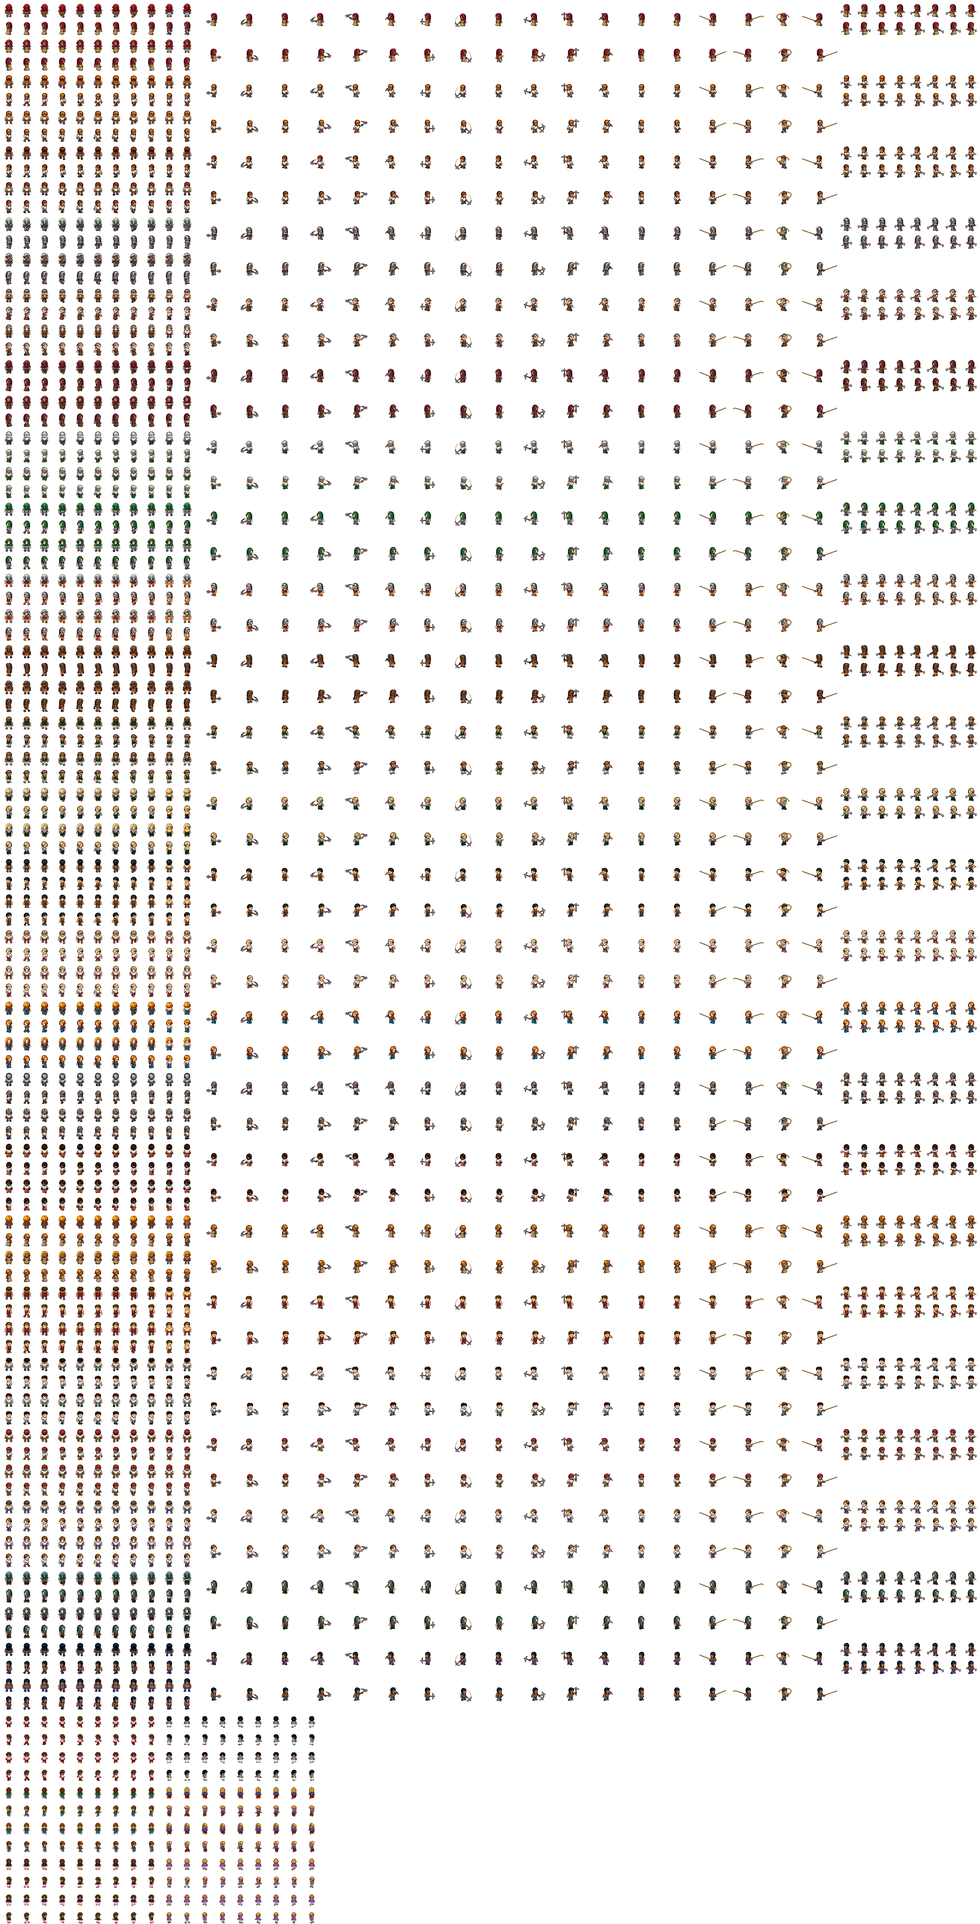
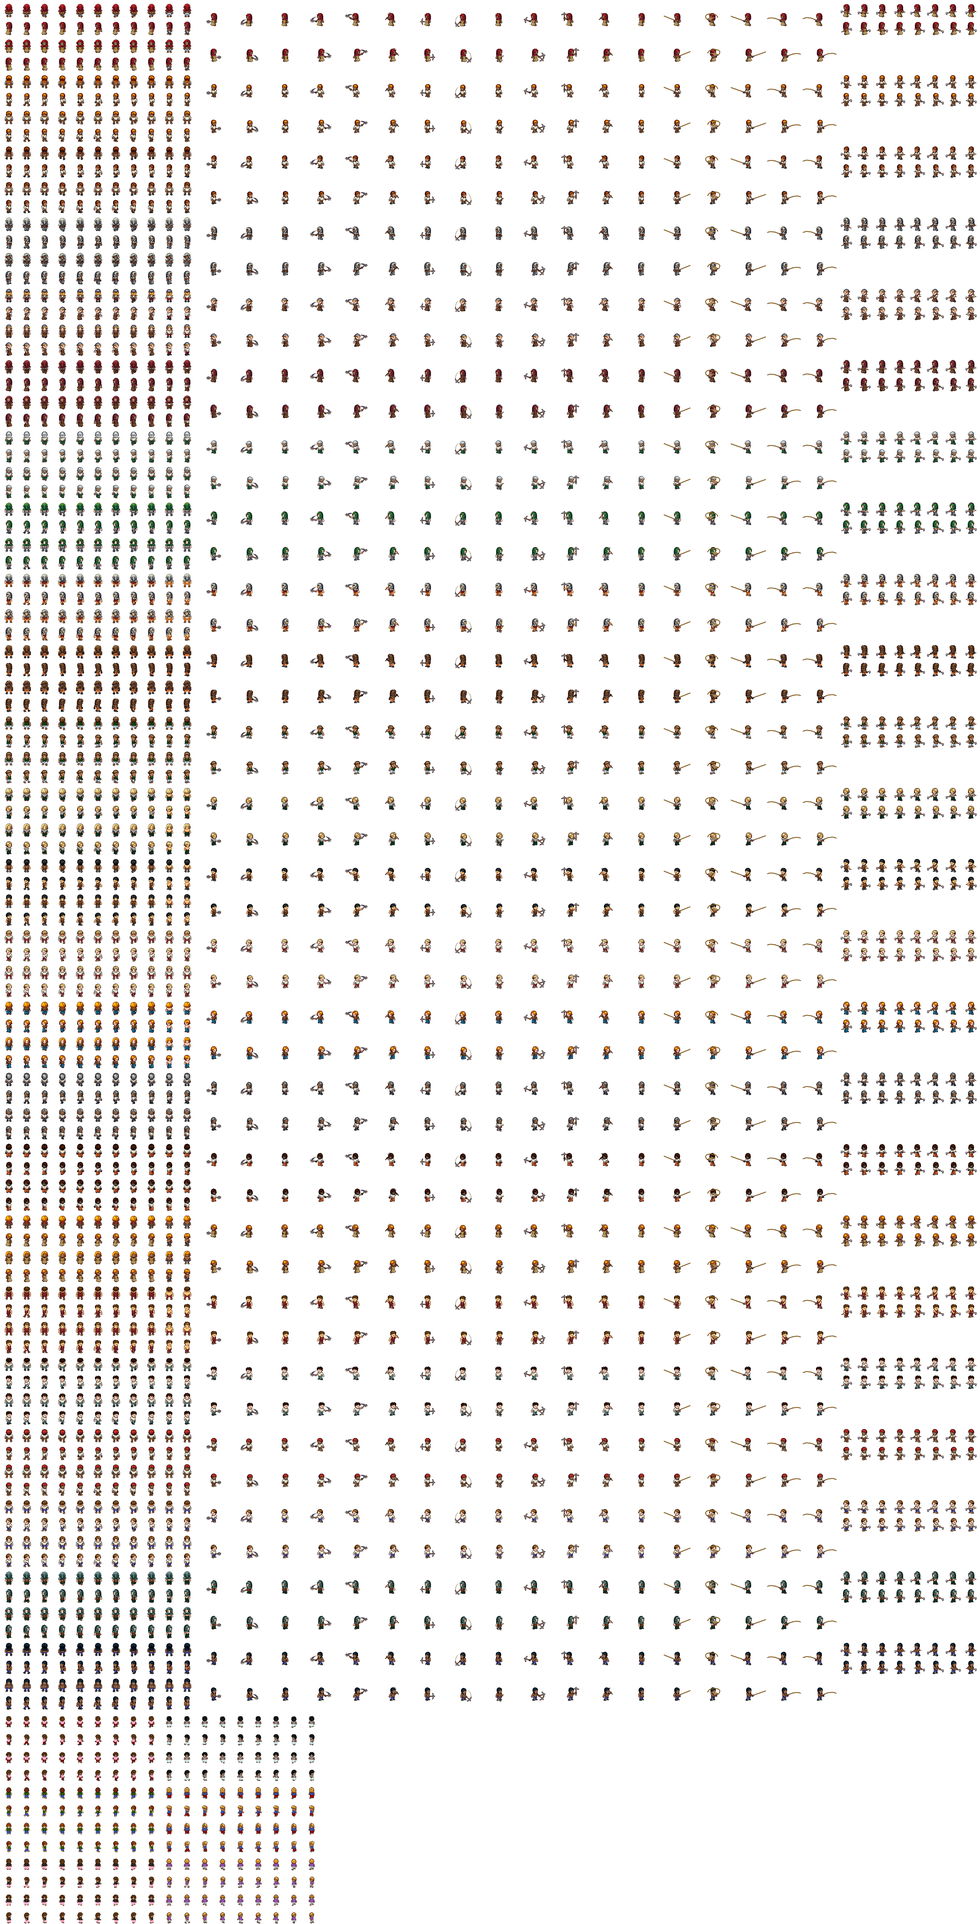
Terres franches : retouches (ordre de construction, canne tendue, minuteur de la bulle, vivres, libres, place maximale, biches, chat, rues)
- Volet CONSTRUIRE rangé dans l'ordre où l'on peut bâtir.
- Pêcheur : lancer puis canne tendue vers l'eau (planche refaite avec les
  images 6 et 7 de la canne LPC).
- Bulle : le minuteur d'un chantier baisse ; bouton AGRANDIR.
- Coût d'un villageois : icône des vivres (baies et poisson), rappel
  « vivres = baies, poisson ou pain ».
- Villageois sans métier : bandeau dans le volet, pastille LIBRES en haut.
- Place maximale : « /1200 » sur PC, jauge plus visible (vert, orange, rouge).
- Biches et cerf passent sous les arbres ; chat couché posé au sol.
- Les villageois marchent 1,5 fois plus vite sur les rues (MARCHE).

Claude-Session: https://claude.ai/code/session_012rRjPHE6E5cJMLYcQwQ3Zv

diff --git a/terres-franches/ecran.js b/terres-franches/ecran.js
@@ -18,8 +18,9 @@ function majBarre(){
   const liste = Object.keys(DON.RES).filter(r => TOUJOURS.includes(r) || vus[r]);
   let h = liste.map(r => { const v = t[r] * 60, tx = Math.abs(v) < .05 ? "" : `<small class="${v < 0 ? "moins" : ""}">${v > 0 ? "+" : ""}${Math.abs(v) < 10 ? v.toFixed(1) : Math.round(v)}</small>`;
     const cap = R.capacite(S, r), f = Math.min(1, S.res[r] / cap), pl = f > .985;
-    return `<span class="${pl ? "plein" : ""}" title="${nomRes(r)} : ${fmt(S.res[r])} / ${fmt(cap)}">${ic(r)}<b>${fmt(S.res[r])}</b>${pl ? "<small>PLEIN</small>" : tx}<i class="jauge" style="width:${Math.round(f * 100)}%"></i></span>`; }).join("");
-  h += `<span title="Habitants"><canvas class="ic portrait" width="30" height="30"></canvas><b>${S.pop}/${R.popMax(S)}</b></span>`;
+    return `<span class="${pl ? "plein" : f > .8 ? "presque" : ""}" title="${nomRes(r)} : ${fmt(S.res[r])} / ${fmt(cap)}">${ic(r)}<b>${fmt(S.res[r])}</b><small class="max">/${fmt(cap)}</small>${pl ? "<small class='pl'>PLEIN</small>" : tx}<i class="jauge"><i style="width:${Math.round(f * 100)}%"></i></i></span>`; }).join("");
+  const lib = R.libres(S);
+  h += `<span title="Habitants"><canvas class="ic portrait" width="30" height="30"></canvas><b>${S.pop}/${R.popMax(S)}</b>${lib ? `<em class="libres" title="Sans métier">${lib} LIBRE${lib > 1 ? "S" : ""}</em>` : ""}</span>`;
   if (h !== barre){ barre = h; $("res").innerHTML = h; $("res").querySelectorAll("canvas.portrait").forEach(portrait); }
   const st = DON.STATUTS[S.statut].nom; if ($("statut").textContent !== st) $("statut").textContent = st;
 }
@@ -34,13 +35,15 @@ function cout(c){
 }
 function volVillageois(){
   const S = J.S, P = R.reglages(S.mods), t = R.taux(S);
-  let h = `<h3><span>HABITANTS ${S.pop}/${R.popMax(S)}</span><span>LIBRES ${R.libres(S)}</span></h3>`;
+  const lib = R.libres(S);
+  let h = `<h3><span>HABITANTS ${S.pop}/${R.popMax(S)}</span></h3>`;
+  h += `<div class="sans ${lib ? "oui" : ""}"><b>${lib}</b><span>${lib ? `villageois sans métier : donne-${lib > 1 ? "leur" : "lui"} un travail avec <i>+</i>` : "Tout le monde travaille."}</span></div>`;
   // la limite : les toits (tente et feu, cabanes, maisons) ou le statut de la colonie, le plus petit des deux
   const toits = R.logement(S), lim = P.STATUTS[S.statut].popMax, suiv = P.STATUTS[S.statut + 1];
   h += `<p class="limite">Toits : <b>${toits}</b> · ${P.STATUTS[S.statut].nom} : <b>${lim}</b> au plus<br>${S.pop < R.popMax(S) ? "Il reste de la place : accueille quelqu'un."
     : toits < lim ? "Il manque des toits : construis une cabane." : suiv ? `Le ${P.STATUTS[S.statut].nom.toLowerCase()} est plein : il faut devenir ${suiv.nom.toLowerCase()} (volet COLONIE).` : "Plafond de l'ère : promulgue la Loi."}</p>`;
   const c = R.coutRecrue(S);
-  h += `<div class="carte"><canvas width="30" height="30" class="portrait" data-p="${S.pop}"></canvas><span class="nom">ACCUEILLIR<small>${cout(c)}</small></span><button type="button" class="bouton petit or" data-act="recruter">+1</button></div>`;
+  h += `<div class="carte"><canvas width="30" height="30" class="portrait" data-p="${S.pop}"></canvas><span class="nom">ACCUEILLIR<small>${cout(c)} <em>vivres = baies, poisson ou pain</em></small></span><button type="button" class="bouton petit or" data-act="recruter">+1</button></div>`;
   for (const m in P.METIERS){
     const M = P.METIERS[m], pl = R.places(S, m); if (!pl) continue;
     const r = M.produit || M.sortie, par = M.produit ? `${(t[r] * 60 >= 0 ? "+" : "")}${(t[r] * 60).toFixed(1)} ${nomRes(r)}/MIN` : `${Object.keys(M.entree).map(nomRes).join(" + ")} → ${nomRes(r)}`;
@@ -51,7 +54,7 @@ function volVillageois(){
 }
 function volConstruire(){
   const S = J.S, P = R.reglages(S.mods); let h = "";
-  for (const b in P.BATIMENTS){
+  for (const b of Object.keys(P.BATIMENTS).sort((u, v) => P.BATIMENTS[u].statut - P.BATIMENTS[v].statut)){   // dans l'ordre où l'on peut bâtir
     const B = P.BATIMENTS[b], e = R.peutConstruire(S, b), bloque = B.statut > S.statut, libres = C.libres(S, B.terrain).length;
     const plein = B.logement && !bloque && R.logement(S) >= P.STATUTS[S.statut].popMax;   // assez de toits : le statut limite
     if (B.niveaux && S.bat[b] + S.chantiers.filter(c => c.k === b).length > 0){   // une réserve déjà là : on l'agrandit
@@ -164,10 +167,16 @@ function bulle(id){
   const S = J.S, b = S.lots[id], B = DON.BATIMENTS[b], ch = S.chantiers.find(c => c.lot === id);
   const metiers = Object.keys(DON.METIERS).filter(m => DON.METIERS[m].places[b]);
   const qui = metiers.map(m => `${DON.METIERS[m].nom} : ${S.jobs[m]}/${R.places(S, m)}`).join("<br>");
-  const res = B.stock ? DON.STOCK.groupes[B.stock].map(r => `${nomRes(r).toLowerCase()} ${fmt(S.res[r])}/${fmt(R.capacite(S, r))}`).join("<br>") : "";
-  el.innerHTML = `<b>${B.nom}${B.niveaux ? " · NIV. " + S.bat[b] : ""}</b>${ch ? `${ch.agrandit ? "Agrandissement" : "Chantier"} : encore ${Math.ceil(ch.reste)} s` : B.logement ? `Loge ${B.logement} habitants` : res || qui || ""}
-    <div class="rang"><button type="button" class="bouton petit" data-x="dep">DEPLACER</button><button type="button" class="bouton petit" data-x="ok">OK</button></div>`;
+  el.innerHTML = `<div id="bInfo">${infoBulle(id)}</div>
+    <div class="rang">${B.niveaux ? `<button type="button" class="bouton petit or" data-x="up">AGRANDIR</button>` : ""}<button type="button" class="bouton petit" data-x="dep">DEPLACER</button><button type="button" class="bouton petit" data-x="ok">OK</button></div>`;
   el.hidden = false; placerBulle();
+}
+// le texte de la bulle (refait 4 fois par seconde : le minuteur du chantier baisse)
+function infoBulle(id){
+  const S = J.S, b = S.lots[id]; if (!b) return ""; const B = DON.BATIMENTS[b], ch = S.chantiers.find(c => c.lot === id);
+  const qui = Object.keys(DON.METIERS).filter(m => DON.METIERS[m].places[b]).map(m => `${DON.METIERS[m].nom} : ${S.jobs[m]}/${R.places(S, m)}`).join("<br>");
+  const res = B.stock ? DON.STOCK.groupes[B.stock].map(r => `${nomRes(r).toLowerCase()} ${fmt(S.res[r])}/${fmt(R.capacite(S, r))}`).join("<br>") : "";
+  return `<b>${B.nom}${B.niveaux ? " · NIV. " + S.bat[b] : ""}</b>${ch ? `${ch.agrandit ? "Agrandissement" : "Chantier"} : encore ${Math.ceil(ch.reste)} s<br>` : ""}${B.logement ? `Loge ${B.logement} habitants` : res || qui || ""}`;
 }
 function placerBulle(){
   if (!bulleLot) return; const L = C.LOTS[bulleLot], [sx, sy] = J.versEcran((L.x + L.l / 2) * C.T, L.y * C.T);
@@ -176,6 +185,7 @@ function placerBulle(){
 $("bulle").addEventListener("click", e => {
   const b = e.target.closest("button"); if (!b) return; const id = bulleLot; bulle(null);
   if (b.dataset.x === "dep") choisir(J.S.lots[id], id);
+  if (b.dataset.x === "up"){ const k = J.S.lots[id], e = R.construire(J.S, k); annonce(e || "AGRANDISSEMENT : " + DON.BATIMENTS[k].nom, !e); if (!e) J.sauver(); }
 });
 
 /* ---------- messages ---------- */
@@ -225,6 +235,6 @@ let derniere = 0;
 window.TerresEcran = {
   annonce, bulle, placement, retour,
   depart(recap){ majBarre(); retour(recap); },
-  image(t){ if (t - derniere > .25){ derniere = t; majBarre(); majVolet(); } placerBulle(); }
+  image(t){ if (t - derniere > .25){ derniere = t; majBarre(); majVolet(); const bi = $("bInfo"); if (bi && bulleLot){ const h = infoBulle(bulleLot); if (bi.innerHTML !== h) bi.innerHTML = h; } } placerBulle(); }
 };
 })();

diff --git a/terres-franches/vie.js b/terres-franches/vie.js
@@ -60,14 +60,14 @@ const ESPECES = {
   cerf: {im: "cerf", l: 64, h: 96, py: 90, k: .65, v: .6, n: 4, rang: {h: 0, g: 1, b: 3, d: null}, repos: ["cerf", {h: 2, g: 2, b: 2, d: null}, 4]},
   renard: {im: "renard", l: 64, h: 64, py: 54, k: .5, v: 1.6, n: 4, rang: {h: 3, g: 1, b: 0, d: 2}, repos: ["renard", {h: 0, g: 0, b: 0, d: 0}, 1]},
   chien: {im: "chien", l: 32, h: 32, py: 30, k: .9, v: 1.2, n: 3, bloc: 128, rang: {h: 1, g: 3, b: 2, d: 0}, repos: ["chien", {h: 4, g: 4, b: 4, d: 4}, 3]},
-  chat: {im: "chat", l: 32, h: 32, py: 30, k: .75, v: .7, n: 3, bloc: 128, rang: {h: 1, g: 3, b: 2, d: 0}, repos: ["chat", {h: 0, g: 0, b: 0, d: 0}, 1, 3]},
+  chat: {im: "chat", l: 32, h: 32, py: 30, k: .75, v: .7, n: 3, bloc: 128, rang: {h: 1, g: 3, b: 2, d: 0}, repos: ["chat", {h: 0, g: 0, b: 0, d: 0}, 1, 3], couche: 5},
   poule: {im: "poule", l: 32, h: 32, py: 28, k: .7, v: .5, n: 4, rang: {h: 0, g: 1, b: 2, d: 3}, repos: ["poule-mange", {h: 0, g: 1, b: 2, d: 3}, 4]},
   oiseau: {im: "oiseau1", l: 32, h: 32, py: 26, k: .45, v: .8, n: 3, rang: {h: 5, g: 4, b: 6, d: 7}, repos: ["oiseau1", {h: 5, g: 4, b: 6, d: 7}, 3]},
   poisson: {im: "poisson", l: 32, h: 32, py: 16, k: .8, v: .6, n: 4, rang: {h: 0, g: 1, b: 3, d: 2}}
 };
 // zones en cases [x0, x1, y0, y1] ; quand : à partir de quand la bête est là
 const BETES = [
-  {sp: "biche", z: [5, 9, 3.5, 5], quand: () => true}, {sp: "biche", z: [2.2, 4, 9, 14], quand: () => true}, {sp: "cerf", z: [5, 10, 3.5, 5], quand: () => true},
+  {sp: "biche", z: [3, 10, 2, 6], foret: true, quand: () => true}, {sp: "biche", z: [1, 4.5, 8, 15], foret: true, quand: () => true}, {sp: "cerf", z: [3, 11, 1.5, 5.5], foret: true, quand: () => true},
   {sp: "renard", z: [21.2, 21.8, 3, 17], quand: () => true},
   {sp: "oiseau", z: [2, 13, 17, 23], quand: S => S.bat.champ > 0, n: 4}, {sp: "oiseau", z: null, place: true, quand: S => S.statut >= 1, n: 3},
   {sp: "poule", z: null, logis: true, quand: S => S.bat.cabane > 0, n: 3},
@@ -87,8 +87,9 @@ function zoneDe(a, S){
   if (a.logis){ const id = Object.keys(S.lots).find(i => S.lots[i] === "cabane" || S.lots[i] === "maison"); if (!id) return null; const L = C.LOTS[id]; return [L.x - .3, L.x + L.l + .3, L.y + L.h, L.y + L.h + .8]; }
   return null;
 }
-const libre = (x, y) => /[.^]/.test(C.case_(Math.floor(x), Math.floor(y))) && Math.hypot(x - C.FEU[0] - .5, y - C.FEU[1] - .5) > 1.3;
-function trajetLibre(x0, y0, x1, y1){ const n = Math.ceil(Math.hypot(x1 - x0, y1 - y0) * 3); for (let i = 1; i <= n; i++) if (!libre(x0 + (x1 - x0) * i / n, y0 + (y1 - y0) * i / n)) return false; return true; }
+// où une bête peut aller : l'herbe (et sous les arbres pour les biches et le cerf), jamais l'eau ni le feu et ses abords
+const libre = (x, y, foret) => (foret ? /[.^T*]/ : /[.^]/).test(C.case_(Math.floor(x), Math.floor(y))) && Math.hypot(x - C.FEU[0] - .5, y - C.FEU[1] - .5) > 1.3;
+function trajetLibre(x0, y0, x1, y1, foret){ const n = Math.ceil(Math.hypot(x1 - x0, y1 - y0) * 3); for (let i = 1; i <= n; i++) if (!libre(x0 + (x1 - x0) * i / n, y0 + (y1 - y0) * i / n, foret)) return false; return true; }
 function bouger(a, dt, t, S, agents){
   const E = ESPECES[a.sp];
   if (a.suit){ const m = agents[0]; if (!m) return; const tx = m.x / T - .7, ty = m.y / T + .25, dx = tx - a.x, dy = ty - a.y, d = Math.hypot(dx, dy);
@@ -97,11 +98,11 @@ function bouger(a, dt, t, S, agents){
     a.e = "marche"; const v = Math.min(d, (d > 2 ? 2.4 : 1.4) * dt); a.x += dx / d * v; a.y += dy / d * v; a.dir = Math.abs(dx) > Math.abs(dy) ? (dx > 0 ? "d" : "g") : (dy > 0 ? "b" : "h"); return; }
   const Z = zoneDe(a, S); if (!Z) return;
   if (!a.pose){
-    for (let k = 0; k < 40; k++){ a.x = Z[0] + hash(a.k + k, 3) * (Z[1] - Z[0]); a.y = Z[2] + hash(a.k, 5 + k) * (Z[3] - Z[2]); if (libre(a.x, a.y)) break; }
+    for (let k = 0; k < 40; k++){ a.x = Z[0] + hash(a.k + k, 3) * (Z[1] - Z[0]); a.y = Z[2] + hash(a.k, 5 + k) * (Z[3] - Z[2]); if (libre(a.x, a.y, a.foret)) break; }
     a.pose = true;
   }
   if (a.e === "pause"){ if (t > a.jusqua){
-    for (let k = 0; k < 8; k++){ const tx = Z[0] + Math.random() * (Z[1] - Z[0]), ty = Z[2] + Math.random() * (Z[3] - Z[2]); if (trajetLibre(a.x, a.y, tx, ty)){ a.tx = tx; a.ty = ty; a.e = "marche"; break; } }
+    for (let k = 0; k < 8; k++){ const tx = Z[0] + Math.random() * (Z[1] - Z[0]), ty = Z[2] + Math.random() * (Z[3] - Z[2]); if (trajetLibre(a.x, a.y, tx, ty, a.foret)){ a.tx = tx; a.ty = ty; a.e = "marche"; break; } }
     if (a.e === "pause") a.jusqua = t + 1;   // rien de libre en ligne droite : il attend
   } return; }
   const dx = a.tx - a.x, dy = a.ty - a.y, d = Math.hypot(dx, dy), v = E.v * dt;
@@ -118,7 +119,7 @@ function bete(x, a, t){
   x.fillStyle = "rgba(30,40,10,.22)"; x.beginPath(); x.ellipse(X, Y, E.l * E.k * .28, E.l * E.k * .1, 0, 0, 6.3); x.fill();
   if (a.e === "marche"){ const r = E.rang[a.dir], mi = r === null; cadre(x, E, E.im, mi ? E.rang.g : r, Math.floor(t * 8 + a.ph) % E.n, X, Y, mi, bloc); return; }
   const [nom, rangs, n, col0] = E.repos, r = rangs[a.dir], mi = r === null;
-  cadre(x, E, nom, mi ? rangs.g : r, col0 != null ? col0 : Math.floor(t * 3 + a.ph) % n, X, Y, mi, bloc);
+  cadre(x, E, nom, mi ? rangs.g : r, col0 != null ? col0 : Math.floor(t * 3 + a.ph) % n, X, Y + (E.couche || 0), mi, bloc);
 }
 function poisson(x, a, t, dt){
   const E = ESPECES.poisson, nx = a.x + (a.dir === "d" ? 1 : -1) * E.v * dt;

diff --git a/terres-franches/jeu.js b/terres-franches/jeu.js
@@ -30,7 +30,14 @@ function piece(n){
 }
 const ICONE = {bois: "i-bois", pierre: "i-pierre", baies: "i-baies", poisson: "i-poisson", ble: "i-ble", farine: "i-farine", pain: "i-pain", laine: "i-laine", vetements: "i-tissu", vivres: "i-baies"};
 const icones = {};
-function icone(r){ if (!icones[r] && ok()) icones[r] = piece(ICONE[r] || "i-or").toDataURL(); return icones[r] || ""; }
+function icone(r){
+  if (!icones[r] && ok()){
+    if (r === "vivres"){ const c = document.createElement("canvas"); c.width = c.height = 48; const b = c.getContext("2d"), p1 = piece("i-baies"), p2 = piece("i-poisson");   // n'importe quelle nourriture
+      b.drawImage(p1, 0, 0, 30, 30 * p1.height / p1.width); b.drawImage(p2, 14, 22, 34, 34 * p2.height / p2.width); icones[r] = c.toDataURL(); }
+    else icones[r] = piece(ICONE[r] || "i-or").toDataURL();
+  }
+  return icones[r] || "";
+}
 const hash = (a, b) => { let h = (a * 374761393 + b * 668265263) ^ 0x5bd1e995; h = Math.imul(h ^ (h >>> 13), 1274126177); return ((h ^ (h >>> 16)) >>> 0) / 4294967296; };
 
 /* ---------- la partie ---------- */
@@ -257,7 +264,7 @@ function lpc(a, X, Y, k){
   if (a.anim === "travail" && VL.outils[a.outil || "hache"]){
     const [ox, fs, nb] = VL.outils[a.outil || "hache"], r = a.dir === "d" ? 1 : 0;
     // la canne : on lance une fois, puis on attend (petite secousse de temps en temps) ; les autres outils frappent en boucle
-    const f = a.outil === "canne" ? (a.f < 6 ? Math.floor(a.f) : (Math.floor(a.t * 1.5) % 5 === 0 ? 5 : 4)) : Math.floor(a.f) % nb;
+    const f = a.outil === "canne" ? (a.f < 4 ? Math.floor(a.f) : (Math.floor(a.t * 1.2) % 3 === 0 ? 5 : 4)) : Math.floor(a.f) % nb;
     x.drawImage(vill, ox + f * fs, ry + r * fs, fs, fs, Math.round(X - fs / 2 * k), Math.round(Y - (fs === 128 ? 92 : 60) * k), fs * k, fs * k); return;
   }
   if (a.anim === "repos"){ const f = Math.floor(a.f / 4) % 2; x.drawImage(vill, 576 + f * 64, ry + row * 64, 64, 64, Math.round(X - 32 * k), Math.round(Y - 60 * k), 64 * k, 64 * k); return; }
@@ -306,7 +313,8 @@ function bouger(a, dt){
   a.f += dt * (a.anim === "travail" ? 8 : 10); a.t += dt;
   if (a.etat === "marche"){
     const p = a.chemin[0]; if (!p){ a.etat = "arrive"; return; }
-    const dx = p[0] - a.x, dy = p[1] - a.y, d = Math.hypot(dx, dy), v = 1.7 * T * dt;
+    const cx = Math.floor(a.x / T), cy = Math.floor(a.y / T), rue = ROUTES.cases.has(cy * C.W + cx) || C.surPlace(cx, cy, S.statut);
+    const dx = p[0] - a.x, dy = p[1] - a.y, d = Math.hypot(dx, dy), v = DON.MARCHE.vitesse * (rue ? DON.MARCHE.route : 1) * T * dt;   // plus vite sur les rues
     if (d <= v){ a.x = p[0]; a.y = p[1]; a.chemin.shift(); if (!a.chemin.length){ a.etat = "arrive"; } }
     else { a.x += dx / d * v; a.y += dy / d * v; a.dir = Math.abs(dx) > Math.abs(dy) ? (dx > 0 ? "d" : "g") : (dy > 0 ? "b" : "h"); }
     if (a.etat === "arrive" && a.apres){ const f = a.apres; a.apres = null; f(); }

diff --git a/terres-franches/style.css b/terres-franches/style.css
@@ -41,9 +41,20 @@ img, canvas{image-rendering:pixelated}
 .res span small.moins{color:var(--rouge)}
 .res .ic{width:18px; height:18px; margin:-3px 0}
 .res span{position:relative}
-.res .jauge{position:absolute; left:0; bottom:-4px; height:2px; background:#6aa83a; border-radius:1px}
-.res span.plein .jauge{background:var(--rouge)}
-.res span.plein small{color:var(--rouge); font-family:var(--titre); font-size:6px}
+/* jauge de remplissage sous chaque ressource (piste sombre, remplissage vert → orange → rouge) */
+.res .jauge{position:absolute; left:2px; right:2px; bottom:-5px; height:4px; background:rgba(40,25,10,.55); border-radius:2px; overflow:hidden}
+.res .jauge i{display:block; height:100%; background:#6aa83a}
+.res span.presque .jauge i{background:#e0a030}
+.res span.plein .jauge i{background:var(--rouge)}
+.res span.plein b{color:var(--rouge)}
+.res small.pl{color:var(--rouge); font-family:var(--titre); font-size:6px}
+.res small.max{display:none; color:#7a6a4a; margin-left:0}
+.res em.libres{font-style:normal; font-family:var(--titre); font-size:6px; background:var(--or); color:var(--ink); padding:2px 3px; margin-left:3px; border-radius:2px}
+.sans{display:flex; align-items:center; gap:8px; margin:2px 0 6px; padding:4px 8px; background:rgba(0,0,0,.25); border-radius:3px; font-size:12px}
+.sans b{font-family:var(--titre); font-weight:400; font-size:14px; color:#bbb}
+.sans.oui{background:rgba(255,217,74,.22); outline:2px solid var(--or)} .sans.oui b{color:var(--or)}
+.sans i{font-style:normal; font-family:var(--titre); font-size:10px}
+.carte .nom small em{font-style:italic; font-weight:600; color:#6a4a2a}
 .cond.place{min-height:0; font-size:12px} .cond.place span{color:var(--rouge); font-weight:700}
 #statut{align-self:center}
 .bas{display:flex; flex-direction:column; gap:4px; align-items:stretch}
@@ -126,6 +137,9 @@ kbd, .touches, .aide .pc{display:none}
   .res span{font-size:15px; border-width:8px 10px; gap:3px}
   .res .ic{width:28px; height:28px; margin:-4px 0}
   .res span small{font-size:10px}
+  .res small.max{display:inline; font-size:11px}
+  .res .jauge{height:5px; bottom:-6px}
+  .res em.libres{font-size:8px}
   .cond{font-size:14px} .cond .ic{width:32px; height:32px} .cond b{font-size:11px}
   .bas{position:fixed; top:64px; right:12px; bottom:12px; width:360px; justify-content:flex-start; gap:6px}
   .onglets{order:-1}

diff --git a/terres-franches/donnees.js b/terres-franches/donnees.js
@@ -91,10 +91,13 @@ const BESOINS = {
 // le pionnier (le joueur) : chaque toucher rapporte `toucher` de la ressource touchée
 const PIONNIER = {toucher: 1, ressources: ["bois", "baies", "poisson"]};
 
+// la marche des villageois (cases par seconde ; × route sur les rues et la place)
+const MARCHE = {vitesse: 1.7, route: 1.5};
+
 // hors ligne : la production continue, bien plus lentement, et plafonnée
 const HORS_LIGNE = {plafond: 4 * 3600, rendement: .25};   // décision du 08/11 : peu au début ; des Lois l'augmenteront
 
-const api = {RES, METIERS, BATIMENTS, STOCK, HIVER, STATUTS, LOI, CARTE, RECRUTER, BESOINS, PIONNIER, HORS_LIGNE};
+const api = {MARCHE, RES, METIERS, BATIMENTS, STOCK, HIVER, STATUTS, LOI, CARTE, RECRUTER, BESOINS, PIONNIER, HORS_LIGNE};
 if (typeof module !== "undefined" && module.exports) module.exports = api;
 if (typeof window !== "undefined") window.TerresDonnees = api;
 })();

diff --git a/outils/terres-maquette/lpc-villageois.py b/outils/terres-maquette/lpc-villageois.py
@@ -62,14 +62,15 @@ def villageois(i):
     return out
   walk, idle = compose("walk"), compose("idle")
   sl, th = compose("slash"), compose("thrust")
-  def outil128(dossier, corps_anim):   # hache, pioche, canne : cases de 128 px, 6 images, gauche puis droite
+  def outil128(dossier, corps_anim, cols=range(6), corps=None):   # hache, pioche, canne : cases de 128 px, 6 images, gauche puis droite
+    # cols : colonnes de la planche de l'outil ; corps : image du corps pour chacune (canne : custom_animations « tool_rod » du dépôt LPC)
     bg, fg = Image.open(S / f"tools/{dossier}/bg.png").convert("RGBA"), Image.open(S / f"tools/{dossier}/fg.png").convert("RGBA")
-    nf, fs = 6, 128; trav = Image.new("RGBA", (nf * fs, 2 * fs))
+    cols = list(cols); corps = corps or cols; nf, fs = len(cols), 128; trav = Image.new("RGBA", (nf * fs, 2 * fs))
     for ligne, rang in ((0, 1), (1, 3)):   # gauche, droite
-      for f in range(nf):
+      for k, (f, cf) in enumerate(zip(cols, corps)):
         c = Image.new("RGBA", (fs, fs)); c.alpha_composite(bg.crop((f * fs, rang * fs, f * fs + fs, rang * fs + fs)))
-        c.alpha_composite(corps_anim.crop((f * 64, rang * 64, f * 64 + 64, rang * 64 + 64)), (32, 32)); c.alpha_composite(fg.crop((f * fs, rang * fs, f * fs + fs, rang * fs + fs)))
-        trav.paste(c, (f * fs, ligne * fs))
+        c.alpha_composite(corps_anim.crop((cf * 64, rang * 64, cf * 64 + 64, rang * 64 + 64)), (32, 32)); c.alpha_composite(fg.crop((f * fs, rang * fs, f * fs + fs, rang * fs + fs)))
+        trav.paste(c, (k * fs, ligne * fs))
     return trav
   def houe():   # cases de 64 px, 8 images
     bg, fg = Image.open(S / "tools/hoe/bg/thrust.png").convert("RGBA"), Image.open(S / "tools/hoe/fg/thrust.png").convert("RGBA")
@@ -82,7 +83,8 @@ def villageois(i):
     return trav
   walk.save(SORTIE / f"v{i}-marche.png"); idle.save(SORTIE / f"v{i}-repos.png")
   outil128("axe", sl).save(SORTIE / f"v{i}-hache.png"); outil128("pickaxe", sl).save(SORTIE / f"v{i}-pioche.png")
-  outil128("fishing_rod", th).save(SORTIE / f"v{i}-canne.png"); houe().save(SORTIE / f"v{i}-houe.png")
+  # canne : le lancer (colonnes 0, 2, 4, 5) puis la canne tendue vers l'eau (6, 7)
+  outil128("fishing_rod", th, [0, 2, 4, 5, 6, 7], [0, 2, 4, 5, 4, 4]).save(SORTIE / f"v{i}-canne.png"); houe().save(SORTIE / f"v{i}-houe.png")
   return {"i": i, "outil": outil, "femme": fem, "peau": peau, "cheveux": chev, "coiffe": coiffe, "vieux": vieux}
 def enfant(i):
   peau = r.choice(["light", "amber", "olive", "taupe", "bronze", "brown", "black"]); chev = r.choice(["blonde", "sandy", "ginger", "chestnut", "dark_brown", "black", "light_brown", "redhead"])
